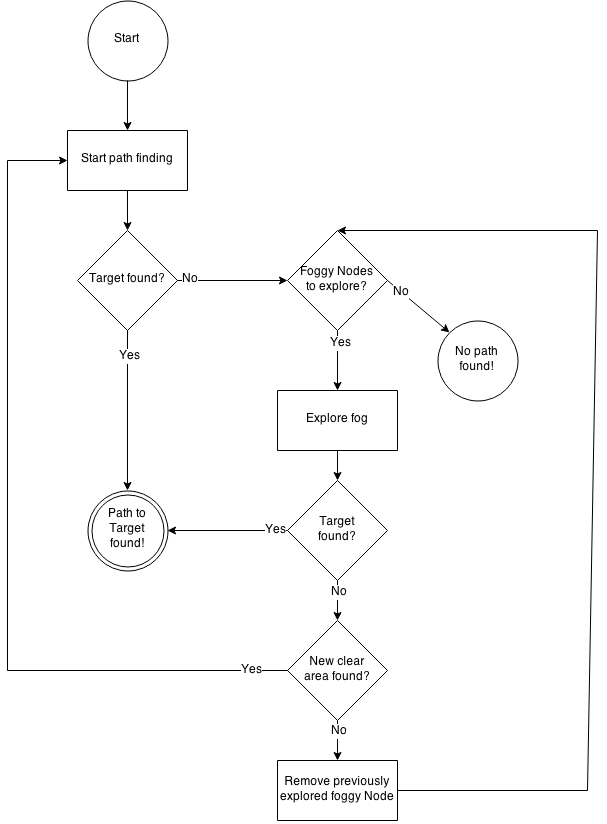
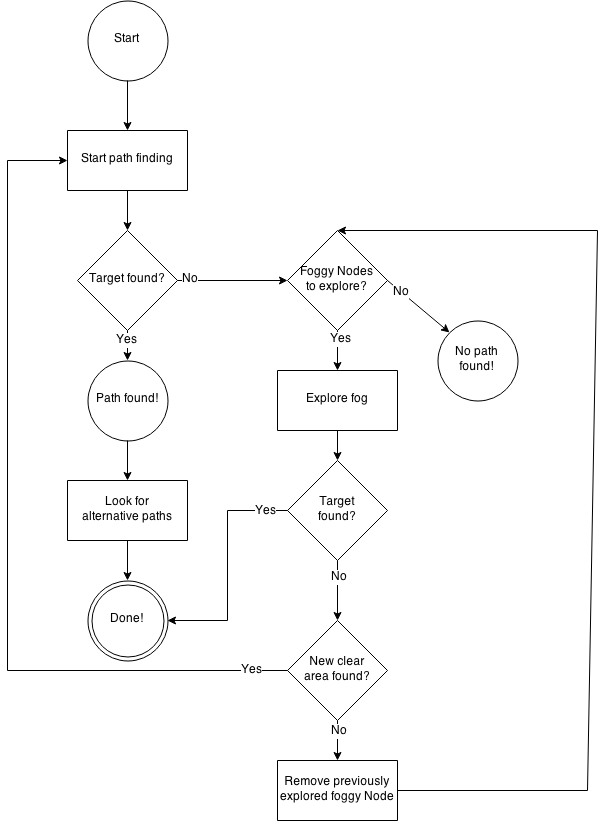
more documentation

diff --git a/DESCRIPTION.md b/DESCRIPTION.md
@@ -112,31 +112,68 @@ Processing a `Node` moves it from the list of open `Node`s to the list of closed
 - if the neighbor is passible and not foggy and is not yet in the list of open `Node`s, it is added to that list
 
 
+## Fog Exploration
 
+### Overview
+Fog exploration is started by calling `AbstractFogExploreAlgorithm`'s static `ExploreFog(...)` method. Analogously to `AbstractPathFindAlgorithm`, it uses an enum member to start fog exploration with a specific implementation that is contained in a
+dictionary in `Utils`.
 
+Merely one method is left to implement for concrete algorithms to explore fog: `GetMetric(Node candidate, Func<Node, int> getDistanceToTarget)`. This method returns a metric value for the candidate according to the implementing class' criteria, while all
+information is either retrieved directly from the candidate `Node` or with the passed function pointer which retrieves the heuristic distance to the __Target__.
 
+__NOTE__: When using a path finding algorithm that always uses 0 ("zero") for its heuristic distance like Dijkstra, the fog exploration is affected as well since this will basically call `AbstractPathFindAlgorithm`'s `GetHeuristic(Node node1, Node node2)`
+method.
 
+When fog exploration generally follows these steps, which are repeated until the __Target__ or a clear area is found or there are no further foggy `Node`s to explore.
+- select a foggy neighbor
+- if no valid neighbor exists, backtrack
+- if a valid neighbor exists, move there
+
+Which neighbor is selected in the first step depends on the fog explore algorithm implementation since it is determined solely by the metric that is calculated for each candidate.
 
 
 # Sequence of Events during Path Finding
+The sequence of steps that are being taken in order to try and find a path to the __Target__ are best summed up in the following diagram.
+
 ![alt text](https://github.com/mystyfly/304cr-assignment-1/blob/master/pathfinding.png "Path finding workflow")
 
-TODO
+Initially, path finding is started which attempts to find a path through the clear `Node`s to the __Target__. If such a path is discovered, alternative, equal-cost paths are being investigated as well, after which the program terminates.
+
+If the __Target__ has not been found and no foggy `Node`s have been encountered that could be explored, the program terminates as well. Otherwise, one of the foggy `Node`s is being chosen where the fog exploration will start.
+
+If the fog exploration "stumbles" upon the __Target__, the program terminates (without looking for alternative paths since the __Player__ currently is in the fog. Otherwise, if a previously unknown clear area is discovered, path finding restarts. If no new
+area has been discovered, the __Player__ will backtrack until he returns to the foggy `Node` where he initially entered the fog. From there, if there is another foggy `Node` he could explore, he moves to that, otherwise the search terminates without
+finding a path.
+
+__NOTE__: More details on what happens during the different stages can be found in the console output.
+
+
+# Interesting features
+Before chosing a foggy `Node` to explore, _bad_ candidates are removed in two steps:
+- firstly, all `Node`s are removed that border on a foggy `Node` that has previously been explored and does not contain further interesting neighbors
+- secondly, all foggy `Node`s where each neighbor is either clear, impassible or contained in the foggy `Node` list are removed since they won't offer interesting foggy paths to explore
+
+This is done for the sake of optimization since unsuccessful fog exploration is extremely costly: Moving through the clear section to the fog, moving through the fog, backtracking trough the fog, and eventually moving towards another foggy `Node`.
+
+Finding a path from the __Player__ to the __Target__ is partitionned into _segments_. Each segment either is path finding or fog exploration. One of the big advantages of this approach is related to drawing: When a segment is complete, the action that
+draws the complete segment is added to a list of actions that will, from now on, always be drawn. That means that the path through previous segments is always visible.
+
+I've chosen to not terminate the path finding as soon as a path has been found but to look for alternative paths with equal cost first. These paths are always equal in cost but may differ in the number of `Node`s that are covered. This information may be
+desirable for example when taking other parameters into account, like locations of friendly or opposing units.
 
 
 # Known Issues/Limitations
+Most issues are related to the fog exploration. Firstly, the player must always start on a clear tile.
 
+Also, if a foggy area has been explored without result (and the __Player__ backtracked to the initial `Node`, if the next foggy `Node` is chosen based on the cost to the player, the cost will be calculated starting from the `Node` where the __Player__
+started the path finding in the clear area. That means that further foggy `Node`s will not have lowest cost from the current __Player__ position and that the __Player__ must also first move back to that `Node` rather than moving directly to the new foggy
+`Node`. If the path back to the starting `Node` and the path to the new foggy `Node` share a common part then this part is being ignored of course.
 
-Interesting stuff
-- multi-step removal of shitty foggy nodes
-- partition into segments
-- looks for alternative paths
-- mention console output
-- why path alternatives are investigated
+In order to avoid this sub-optimal behavior, path finding for the already known clear area would have to be restarted which is linked with several new problems and would exceed the scope of this project which is why I decided to neglect that.
 
-Issues
-- after unsuccessfully investigating fog, moves back to start and from there to next fog
- -> reason: would have to restart pathfinding all the time
- -> this is slightly reduced by ignoring common parts of the path
-- can NOT find path when one would be possible if clear patch is found after investigating fog but that clear patch doesn't lead to the target
- -> no backtracking to last clear area
+Another issue is that, during fog exploration, if the __Player__ finds another clear area that has already been explored previously, he will never move there (except when backtracking to the `Node` where he started the fog exploration). This is primarily to avoid endless loops where the __Player__ keeps moving back and forth between
+two clear areas. That could of course be avoided as well but again, this goes beyond the scope of this project. A downside of never visiting known clear areas is that the player may get stuck and terminate path finding without a result even though a path
+would indeed exist. An example of that can be seen in the [examples](https://github.com/mystyfly/304cr-assignment-1/blob/master/EXAMPLE.md).
+
+Maps with complex foggy area/clear area structures can break the program by entering an infinite loop.
+

diff --git a/EXAMPLES.md b/EXAMPLES.md
@@ -21,39 +21,46 @@ According to the [path finding workflow](https://github.com/mystyfly/304cr-assig
 
 ![alt text](https://github.com/mystyfly/304cr-assignment-1/blob/master/examples/e2-foggy-node.png "Example 2: Choose a foggy node")
 
-
-
+The __Player__ might get stuck while exploring...
 
 ![alt text](https://github.com/mystyfly/304cr-assignment-1/blob/master/examples/e2-fog-stuck.png "Example 2: Stuck in the fog")
 
+... so he would backtrack until he finds new explorable foggy `Node`s...
+
 ![alt text](https://github.com/mystyfly/304cr-assignment-1/blob/master/examples/e2-backtracked.png "Example 2: Backtracking in the fog")
 
+... until he eventually finds a way out of the fog.
 
 ![alt text](https://github.com/mystyfly/304cr-assignment-1/blob/master/examples/e2-escaped-fog.png "Example 2: Eventually escaped the fog")
 
+From there, normal path finding is carried out to find a path to the __Target__.
 
 ![alt text](https://github.com/mystyfly/304cr-assignment-1/blob/master/examples/e2-found-target.png "Example 2: Eventually found the target")
 
 
+# Example 3
+The different means of choosing a foggy `Node` to start the exploration and to choose a foggy neighboring `Node` in the fog have a significant impact on the result of the path finding.
+
+Generally, moving to the foggy `Node` that is closest to the player and, in the fog, moving to the `Node` that has lowest cost yields the worst results.
+
+![alt text](https://github.com/mystyfly/304cr-assignment-1/blob/master/examples/e3-mincost-closesttoplayer.png "Example 3: Choose closest Node to the player and move to cheapest Node")
+
+Just by chaning the behavior in the fog to moving to the `Node` that gets the __Player__ closest to the __Target__, the result usually is already greatly improved.
+
+![alt text](https://github.com/mystyfly/304cr-assignment-1/blob/master/examples/e3-mindist-closesttoplayer.png "Example 3: Choose closest Node to the player and move to nearest Node to Target")
+
+However, normally the best results are achieved by exploring a foggy `Node` that is already closest to the __Target__ since the path to the `Node` is likely fairly good as it has been discovered by path finding rather than try-and-error. Even when moving
+to the `Node` with lowest cost when in the fog, this method reduces the total cost by another 20% in this example.
+
+![alt text](https://github.com/mystyfly/304cr-assignment-1/blob/master/examples/e3-mincost-closesttotarget.png "Example 3: Choose closest Node to the target and move to cheapest Node")
 
 
-![alt text](https://github.com/mystyfly/304cr-assignment-1/blob/master/examples/e3-mincost-closesttoplayer.png "Example 3: Choose a foggy node")
+# Example 4
+Unfortounately, it's not always possible to find a path through complex fog, as displayed here. This shows the situation in a hand-crafted map where the player finds a clear area from where all bordering fog in turn borders on already explored fog.
 
-![alt text](https://github.com/mystyfly/304cr-assignment-1/blob/master/examples/e3-mindist-closesttoplayer.png "Example 3: Choose a foggy node")
+![alt text](https://github.com/mystyfly/304cr-assignment-1/blob/master/examples/e4-about-to-be-stuck.png "Example 4: About to be stuck")
 
-![alt text](https://github.com/mystyfly/304cr-assignment-1/blob/master/examples/e3-mincost-closesttotarget.png "Example 3: Choose a foggy node")
+Since everything around that clear area either is already explored or doesn't lead to new territory, the __Player__ gets stuck even though there would be paths to the __Target__.
 
-
-
-
-
-![alt text](https://github.com/mystyfly/304cr-assignment-1/blob/master/examples/e4-about-to-be-stuck.png "Example 4: Choose a foggy node")
-
-
-![alt text](https://github.com/mystyfly/304cr-assignment-1/blob/master/examples/e4-stuck.png "Example 4: Choose a foggy node")
-
-
-
-
-
+![alt text](https://github.com/mystyfly/304cr-assignment-1/blob/master/examples/e4-stuck.png "Example 4: Stuck!")
 

diff --git a/README.md b/README.md
@@ -4,11 +4,9 @@
 This project contains my solution to the first assignment in the module 304cr "Games and AI" at Coventry University 2014/15. The core challenge is to implement pathfinding with with the A\*-algorithm. Maps that form the world for the pathfinding can be
 extensively edited, saved and loaded. Furthermore, apart from normal, __clear__ tiles, there is also the possibility of declaring tiles as __foggy__ which means that these tiles can't be part of the (stationary) pathfinding but have to be explored.
 
-## Installation
-TODO
-
 ## Further Information
 More detailed description of the components of the project as well as the usage can be found in the [description file](https://github.com/mystyfly/304cr-assignment-1/blob/master/DESCRIPTION.md).
 
 ## Examples
 Example maps showcasing different features/limitations of the project can be found in the [example file](https://github.com/mystyfly/304cr-assignment-1/blob/master/EXAMPLE.md).
+
